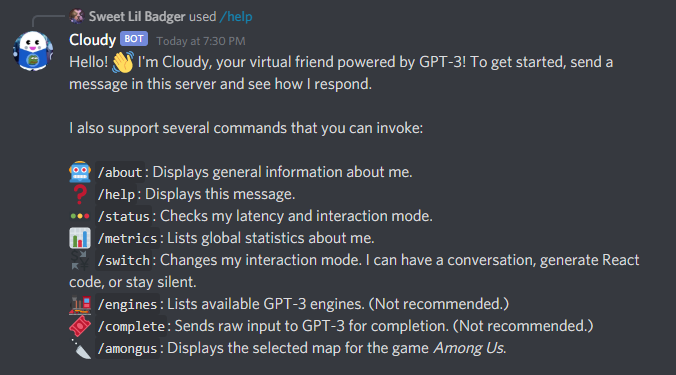
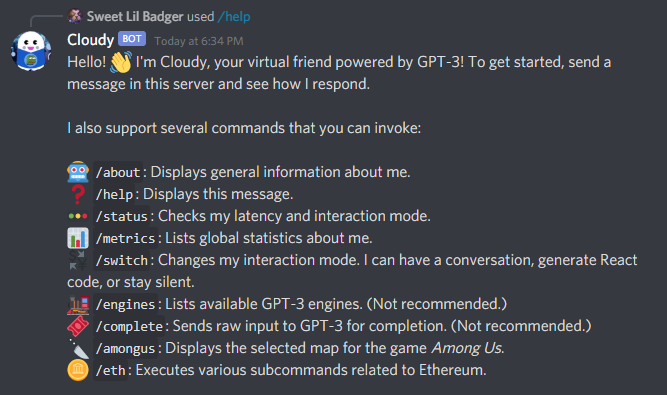
🪙

Changed region(s): [[0.09, 0.4107, 0.9595, 0.968], [0.0, 0.0293, 0.9295, 0.264], [0.09, 0.2933, 0.6297, 0.3813]]

diff --git a/bot.py b/bot.py
@@ -8,7 +8,7 @@ from discord_slash import SlashCommand
 from discord_slash.utils.manage_commands import create_option, create_choice
 from openai.error import OpenAIError
 
-from util import db, fixtures, gpt, locks
+from util import db, eth, fixtures, gpt, locks
 
 
 logger = logging.getLogger(__name__)
@@ -22,10 +22,11 @@ class Cloudy(commands.Bot):
 
     For details about the specific functionality, please refer to the README.
     """
-    def __init__(self, *args, **kwargs):
-        super(Cloudy, self).__init__(*args, **kwargs)
+    def __init__(self, etherscan_api_key=None, *args, **kwargs):
+        super(Cloudy, self).__init__(command_prefix="/", *args, **kwargs)
         self.history = defaultdict(list)
         self.lock = locks.Lock()
+        self.etherscan_api_key = etherscan_api_key
         self._init_slash_commands()
    
     async def on_ready(self):
@@ -165,6 +166,7 @@ class Cloudy(commands.Bot):
                     f"""
                     GPT-3 completions generated: {db.get_gpt_completions()}
                     Discord servers joined: {db.get_guild_count()}
+                    Etherscan API calls made: {db.get_etherscan_calls()}
                     """
                 ).strip()
             )
@@ -177,8 +179,22 @@ class Cloudy(commands.Bot):
         async def _status(ctx):
             """Displays the bot's interaction mode and latency."""
             latency = round(self.latency * 1000, 3)
+            timestamp = db.get_last_init()
             mode = db.get_mode(ctx.guild.id)
-            await ctx.send(f"I received your ping in {latency} ms. I'm currently in `{mode}` mode.")
+            statuses = [
+                f"- I received your ping in {latency} ms.",
+                f"- My current build was initialized on {timestamp} UTC.",
+                f"- Right now I'm in `{mode}` mode.",
+            ]
+            if openai.api_key is not None:
+                statuses.append("- I have an OpenAI API key. ✅")
+            else:
+                statuses.append("- I am missing an OpenAI API key. ❌")
+            if self.etherscan_api_key is not None:
+                statuses.append("- I have an Etherscan API key. ✅")
+            else:
+                statuses.append("- I am missing an Etherscan API key. ❌")
+            await ctx.send("\n".join(statuses))
 
         @cmd.slash(
             name="switch",
@@ -292,4 +308,58 @@ class Cloudy(commands.Bot):
         async def _amongus(ctx, map_url: str):
             """Displays a map from Among Us, depending on user selection."""
             await ctx.send(map_url)
- 
+  
+        @cmd.subcommand(
+            base="eth",
+            name="price",
+            description="Fetches the current price of Ethereum in USD.",
+            guild_ids=guild_ids,
+        )
+        async def _price(ctx):
+            await ctx.defer()
+            if self.etherscan_api_key is None:
+                await ctx.send(fixtures.missing_etherscan_api_key_msg)
+                return
+            try:
+                price_data = eth.price(self.etherscan_api_key)
+                if "error" in price_data:
+                    await ctx.send(price_data["error"])
+                    return
+                price = round(price_data["ethusd"], 2)
+                timestamp = price_data["timestamp"].strftime("%B %-m, %Y %H:%M UTC")
+                await ctx.send(f"The price of 1 Ether is ${price} USD as of {timestamp}.")
+            except Exception as e:
+                logger.warning(e)
+                await ctx.send(fixtures.generic_error_message)
+
+        @cmd.subcommand(
+            base="eth",
+            name="balance",
+            description="Fetches the balance of an Ethereum and its value in USD.",
+            guild_ids=guild_ids,
+            options=[
+                create_option(
+                    name="wallet",
+                    description="The Ethereum wallet address.",
+                    option_type=3,
+                    required=True,
+                ),
+            ],
+        )
+        async def _balance(ctx, wallet: str):
+            await ctx.defer()
+            if self.etherscan_api_key is None:
+                await ctx.send(fixtures.missing_etherscan_api_key_msg)
+                return
+            try:
+                balance_data = eth.balance(self.etherscan_api_key, wallet)
+                if "error" in balance_data:
+                    await ctx.send(f"{balance_data['error']} - `{wallet}`")
+                    return
+                timestamp = balance_data["timestamp"].strftime("%B %-m, %Y %H:%M UTC")
+                ether = balance_data["ether"]
+                usd = round(balance_data["usd"], 2)
+                await ctx.send(f"As of {timestamp}, the wallet `{wallet}` has {ether} ETH, or ${usd} USD.")
+            except Exception as e:
+                logger.warning(e)
+                await ctx.send(fixtures.generic_error_message)

diff --git a/util/eth.py b/util/eth.py
@@ -1,0 +1,68 @@
+import logging
+import requests
+from datetime import datetime
+
+from util import db
+
+logger = logging.getLogger(__name__)
+
+# The number of Wei per Ether.
+wei_in_ether = 1000000000000000000
+
+# The base URL for Etherscan's API.
+etherscan_url = "https://api.etherscan.io/api"
+
+# A simple wrapper around Etherscan APIs.
+#
+# I wanted to use a Python client (etherscan-python), but Replit's
+# auto-installation will forcibly install another library (etherscan) that
+# causes a module collision. Thus both libraries are unusable. It's unfortunate
+# that there's no way to disable that "feature."
+
+
+def balance(api_key: str, address: str) -> dict:
+    """Fetches the balance of an Ethereum address and its value in USD."""
+    logger.info("Fetching ETH balance for address %s", address)
+    res = requests.get(f"{etherscan_url}?module=account&action=balance&address={address}&tag=latest&apikey={api_key}")
+    db.increment_etherscan_calls()
+    payload = res.json()
+
+    result = payload["result"]
+    if payload["message"] != "OK":
+        return {
+            "error": result,
+        }
+
+    # Fetch the current ETH price to do a USD conversion.
+    pricing = price(api_key)
+    if "error" in pricing:
+        return pricing
+
+    # Calculate the wallet value in USD.
+    wei = int(result)
+    ether = wei / wei_in_ether
+    usd = ether * pricing["ethusd"]
+    return {
+        "wei": wei,
+        "ether": ether,
+        "usd": usd,
+        "timestamp": pricing["timestamp"],
+    }
+
+
+def price(api_key: str) -> dict:
+    """Fetches the current Ethereum price in USD."""
+    logger.info("Fetching ETH price")
+    res = requests.get(f"{etherscan_url}?module=stats&action=ethprice&apikey={api_key}")
+    db.increment_etherscan_calls()
+    payload = res.json()
+
+    result = payload["result"]
+    if payload["message"] != "OK":
+        return {
+            "error": result,
+        }
+    return {
+        "ethusd": float(result["ethusd"]),
+        "timestamp": datetime.fromtimestamp(int(result["ethusd_timestamp"])),
+    }

diff --git a/main.py b/main.py
@@ -39,10 +39,17 @@ def main():
     openai.api_key = os.getenv("OPENAI_API_KEY")
     if openai.api_key is None:
         logger.warning("Missing OpenAI API key! Bot actions that depend on GPT-3 may not work properly.")
-        print("Note: Cloudy did not receive an OpenAPI API key. The bot will still run, but expect degraded performance.")
+        print("Note: Cloudy did not receive an OpenAI API key. The bot will still run, but expect degraded performance.")
+
+    # Load the Etherscan API key.    
+    # This is also a soft dependency.
+    etherscan_api_key = os.getenv("ETHERSCAN_API_KEY")
+    if etherscan_api_key is None:
+        logger.warning("Missing Etherscan API key! Bot actions pertaining to Ethereum may not work properly.")
+        print("Note: Cloudy did not receive an Etherscan API key. The bot will still run, but expect degraded performance.")
 
     # Instantiate and run the bot.
-    bot = Cloudy(command_prefix="!")
+    bot = Cloudy(etherscan_api_key=etherscan_api_key)
     bot.run(token)
 
 

diff --git a/util/fixtures.py b/util/fixtures.py
@@ -54,6 +54,7 @@ help_message = dedent(
     :steam_locomotive: `/engines`: Lists available GPT-3 engines. (Not recommended.)
     :tickets: `/complete`: Sends raw input to GPT-3 for completion. (Not recommended.)
     :knife: `/amongus`: Displays the selected map for the game _Among Us_.
+    :coin: `/eth`: Executes various subcommands related to Ethereum.
     """
 ).strip()
 
@@ -86,3 +87,9 @@ react_history = [
 
 # Default messaging history when doing AI-based conversational chat.
 initial_chat_exchange = ("Hello, who are you?", "My name is Cloudy. I am an AI created by Andrew Liu. How can I help you today?")
+
+# A generic error message to show during failed commands.
+generic_error_message = "Oops! Cloudy ran into an unknown error while handling your command."
+
+# The message show show for if Cloudy is missing an Etherscan API key.
+missing_etherscan_api_key_msg = "Sorry! I'm missing an Etherscan API key, so I can't help you right now. Please try again later."

diff --git a/util/db.py b/util/db.py
@@ -16,6 +16,11 @@ def set_last_init():
     logger.info("Last initialization time set as: %s", last_init)
 
 
+def get_last_init() -> str:
+    """Fetches the timestamp when the bot was last instantiated."""
+    return db["last_init"]
+
+
 def switch_mode(guild_id: int, mode: str):
     """Changes the bot's behavior mode for a given Discord server."""
     key = _mode_key(guild_id)
@@ -50,6 +55,16 @@ def increment_guild_count():
 def get_guild_count() -> int:
     """Fetches the number of times the bot has joined a new Discord server."""
     return _get_counter("guilds_joined")
+
+
+def increment_etherscan_calls():
+    """Increments the number of times the bot has called the Etherscan API."""
+    _increment_counter("etherscan_calls")
+
+
+def get_etherscan_calls() -> int:
+    """Fetches the number of times the bot has called the Etherscan API."""
+    return _get_counter("etherscan_calls")
 
 
 def _mode_key(guild_id: int) -> str:

diff --git a/README.md b/README.md
@@ -12,14 +12,17 @@ indie hackers. Cloudy has various talents depending on the situation:
   build. Cloudy will do the heavy lifting and generate the React component for you.
 * **Feeling social?** Grab some friends and play [Among Us][]! Cloudy will fetch
   the maps for you. You'll never get lost or stabbed again!
+* **Interested in Crypto?** Cloudy will get you real time data on Ethereum. Now
+  you can stop spamming refresh on your Coinbase tab!
 
 ### You can try out the live bot by visiting [this link][invite link].
 
 **Imagine an embedded demo video here...**
 
-_Cloudy was proudly built on [Replit][replit] using the [OpenAI API][] and
-[discord.py][]. You can view the [REPL][repl] or browse the [source code][gh].
-Follow [@liuandrewk][twitter] on Twitter if you have any questions or feedback._
+_Cloudy was proudly built on [Replit][replit] using the [OpenAI API][],
+[Etherscan API][], and [discord.py][]. You can view the [REPL][repl] or browse
+the [source code][gh]. Follow [@liuandrewk][twitter] on Twitter if you have any
+questions or feedback._
 
 ## Getting Started
 
@@ -29,11 +32,12 @@ Getting started is simple. Here's what you do:
 2. Start talking!
 
 That's all you need to do. Additionally, Cloudy will expose several Discord
-commands. We will discuss them in more detail in the next section. Here are a
-_some of them_ to whet your appetite:
+commands. We will discuss all of them in more detail in the next section. As an
+example, here are _some of them_ to whet your appetite:
 
-* `/amongus` can fetch the maps in _Among Us_.
-* `/switch` will allow you to change the bot's interaction mode.
+* `/amongus` fetches the maps in _Among Us_.
+* `/switch` allows you to change the bot's interaction mode.
+* `/eth price` shows the current Ethereum price.
 * `/help` will list out all other commands and a getting started guide.
 
 We will discuss the remaining commands and features next. Onwards!
@@ -99,7 +103,25 @@ Currently there are four maps in the game.
 Please [ping me][twitter] if there's an update and you would like the new map
 added.
 
-### And Extras!
+### Ethereum Utilities
+
+To check up on information related to Ethereum, you can use Cloudy's `/eth`
+command group. The command group exposes two subcommands:
+
+* `/eth price` checks the current Ethereum price.
+* `/eth balance <wallet>` checks an Ethereum wallet's balance.
+
+The `price` subcommand takes no arguments and gets the current price of Ethereum
+in USD. Since its price can fluctuate, we also include the last time that this
+price was checked.
+
+The `balance` subcommand takes in an Ethereum wallet address and checks the
+amount of Ether within the wallet. It also converts the Ether to its current
+value in USD.
+
+![Gif demonstrating the Eth command](images/eth.gif)
+
+### And More!
 
 There are several more commands to help you leverage Cloudy. You can view them
 all using the `/help` command.
@@ -111,13 +133,15 @@ I can provide additional context for some of these commands:
 * `/switch` changes Cloudy's interaction mode. It takes in one parameter, which
   is the desired mode. The mode can either be for conversational AI, code
   generation, or silent mode. Like with other commands, there's autocompletion.
-* `/status` will show Cloudy's latency and current interaction mode. This is a
-  great way to debug Cloudy in case of unusual behavior.
+* `/status` will show Cloudy's state, which includes details like latency,
+  current interaction mode, and build time. This is a great way to debug Cloudy
+  in case of unusual behavior.
 * `/metrics` fetches global stats about Cloudy. These include number of Discord
-  servers joined and number of GPT-3 completions generated.
+  servers joined, number of GPT-3 completions generated, and number of Etherscan
+  API calls made.
 * `/engines` lists out the available GPT-3 engines. This is mainly for debugging
   purposes. (However, it _can_ check whether Cloudy can connect to OpenAI.)
-* `/complete` feeds in raw input for GPT-3 completion. It takes in a single
+* `/complete <prompt>` feeds in raw input for GPT-3 completion. It takes in a single
   parameter, which is the raw input text. This is also mainly for debugging
   purposes, though it might be cool to see how things work behind the scenes.
 
@@ -178,9 +202,9 @@ You have many options with GPT-3 if you're creative with the input it receives.
 ### Slash commands
 
 Most chat bot features occur as a result of normal conversations happening
-within a Discord server. However, Cloudy also supports slash commands. We use an
-[extension library][discord-py-slash-command] to support those commands. As a
-result, it gives us benefits such as fuzzy autocompletion and enumerated
+within a Discord server. However, Cloudy also supports [slash commands]. We use
+an [extension library][discord-py-slash-command] to support those commands. As
+a result, it gives us benefits such as fuzzy autocompletion and enumerated
 arguments. Any non-chat commands you add should be a slash command.
 
 ---
@@ -194,6 +218,7 @@ questions, comments, or feedback. I'd love to hear from you._
 [gpt]: https://openai.com/blog/gpt-3-apps/
 [replit]: https://replit.com/
 [OpenAI API]: https://beta.openai.com/
+[Etherscan API]: https://etherscan.io/apis
 [discord.py]: https://discordpy.readthedocs.io/en/stable/
 [gh]: https://github.com/MrPickles/Cloudy-the-Discord-Bot
 [repl]: https://replit.com/@liuandrewk/Cloudy-The-Hackers-Assistant
@@ -201,3 +226,4 @@ questions, comments, or feedback. I'd love to hear from you._
 [replit db]: https://docs.replit.com/misc/database
 [app docs]: https://discordpy.readthedocs.io/en/stable/discord.html#discord-intro
 [discord-py-slash-command]: https://discord-py-slash-command.readthedocs.io/en/latest/index.html
+[slash commands]: https://www.youtube.com/watch?v=4XxcpBxSCiU
